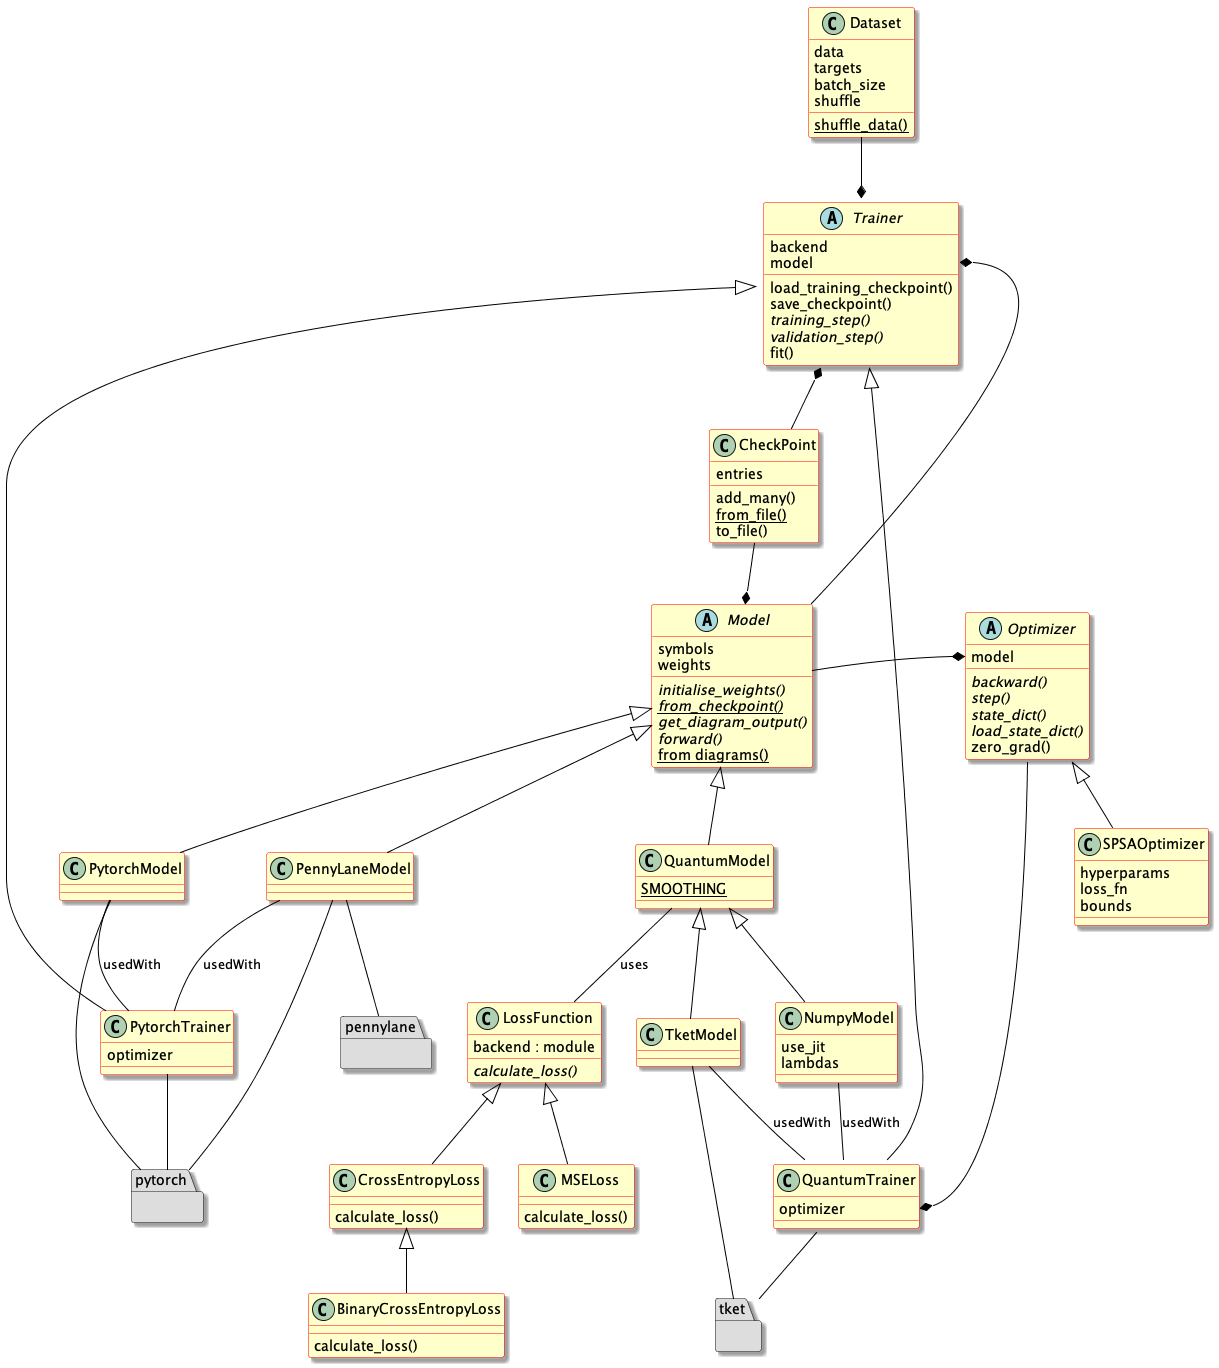
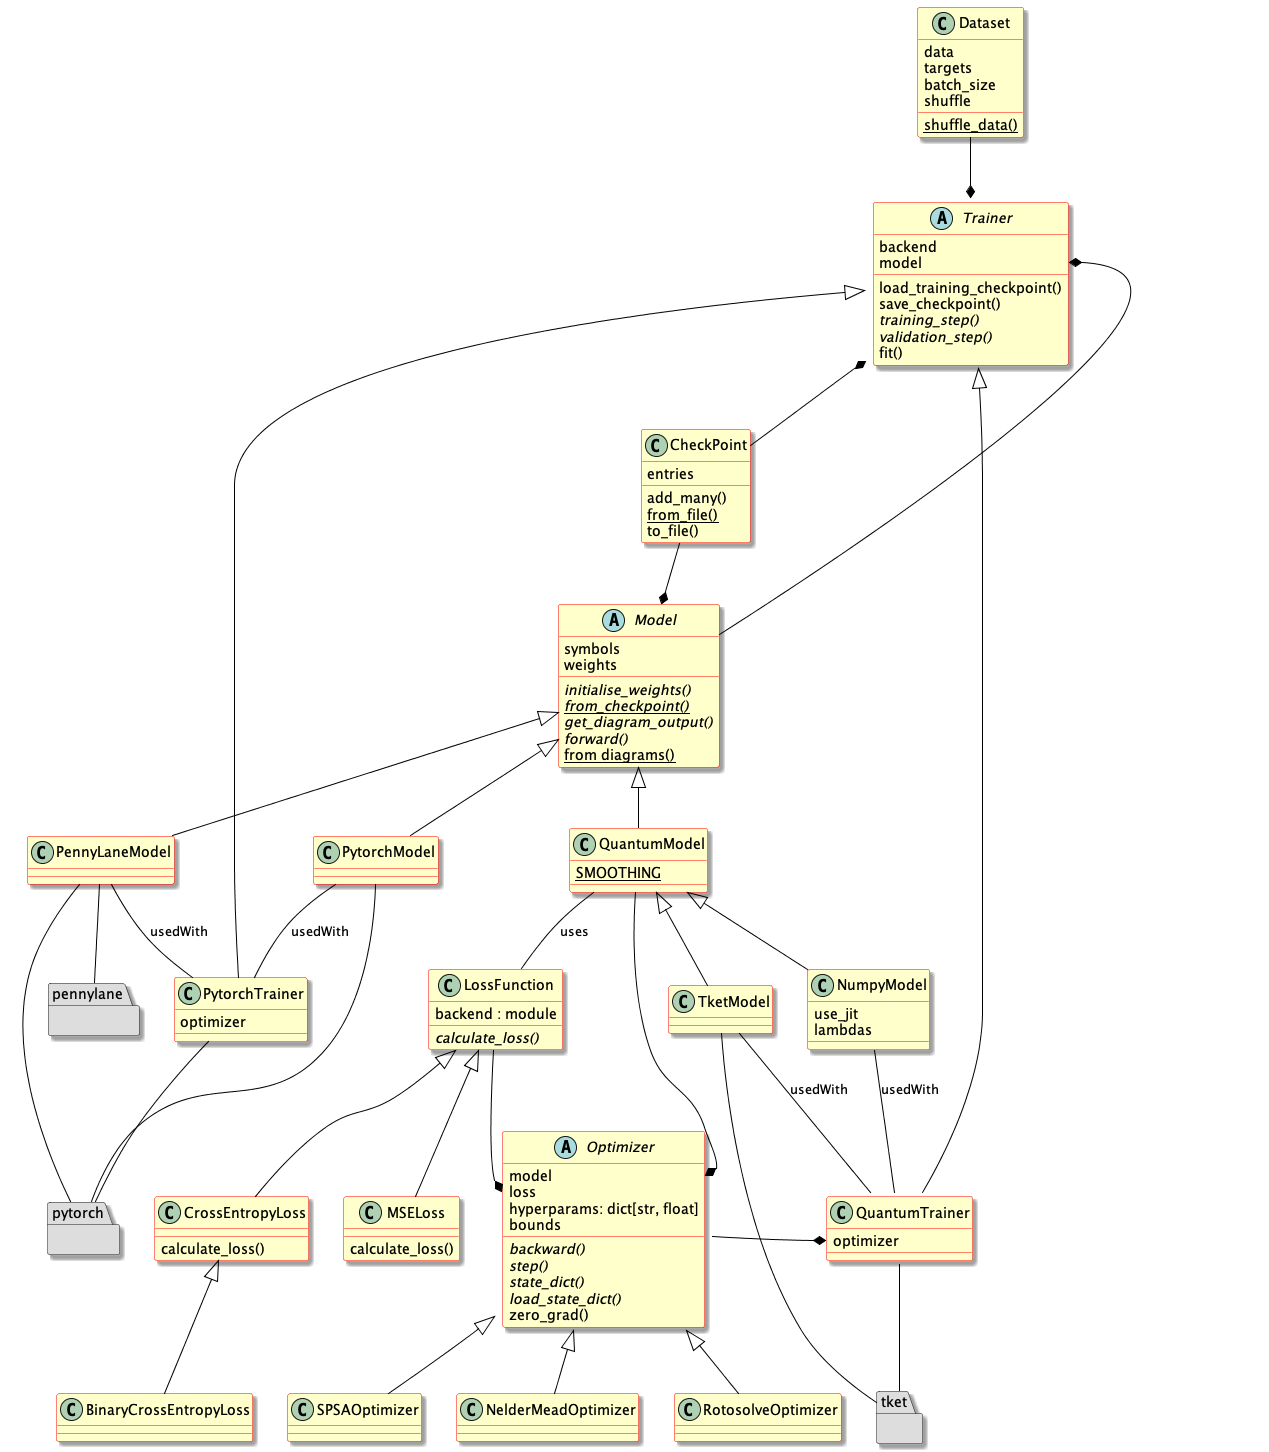
Fixes for 0.3.3 documentation (#538)
Some necessary updates on the docs for Rel. 0.3.3

diff --git a/lambeq/training/nelder_mead_optimizer.py b/lambeq/training/nelder_mead_optimizer.py
@@ -32,7 +32,7 @@ from lambeq.training.quantum_model import QuantumModel
 
 
 class NelderMeadOptimizer(Optimizer):
-    """Nelder Mead Optimizer.
+    """An optimizer based on the Nelder-Mead algorithm.
 
     The Nelder-Mead optimizer is an algorithm used for unconstrained
     optimization in multidimensional spaces. Unlike some other
@@ -52,8 +52,8 @@ class NelderMeadOptimizer(Optimizer):
     heuristic search approach, which means that it can sometimes
     converge to non-stationary points or suboptimal solutions.
 
-    This implementation is based heavily scipy's `optimize.minimize`. See
-    https://docs.scipy.org/doc/scipy/reference/generated/scipy.optimize.minimize.html
+    This implementation is based heavily on SciPy's `optimize.minimize
+    <https://docs.scipy.org/doc/scipy/reference/generated/scipy.optimize.minimize.html>`_.
 
     """
 
@@ -93,7 +93,6 @@ class NelderMeadOptimizer(Optimizer):
         - `fatol`: float, optional, default: 1e-4
             The acceptable level of absolute error in the loss value
             between iterations that indicates convergence.
-        }
 
         Parameters
         ----------
@@ -110,22 +109,21 @@ class NelderMeadOptimizer(Optimizer):
         ------
         ValueError
             - If the hyperparameters are not set correctly, or if the
-            length of `bounds` does not match the number of the model
-            parameters.
+              length of `bounds` does not match the number of the model
+              parameters.
             - If the lower bounds are greater than the upper bounds.
             - If the initial simplex is not a 2D array.
             - If the initial simplex does not have N+1 rows, where N is
-            the number of model parameters.
+              the number of model parameters.
 
-        Warnings
-        --------
+        Warning
             - If the initial model weights are not within the bounds.
 
         References
         ----------
         Gao, Fuchang & Han, Lixing. (2012). Implementing the Nelder-Mead
-        simplex algorithm with adaptive parameters.
-        Computational Optimization and Applications. 51. 259-277.
+        Simplex Algorithm with Adaptive Parameters.
+        `Computational Optimization and Applications`, 51. 259-277.
         10.1007/s10589-010-9329-3.
 
         """

diff --git a/lambeq/training/rotosolve_optimizer.py b/lambeq/training/rotosolve_optimizer.py
@@ -31,7 +31,7 @@ from lambeq.training.quantum_model import QuantumModel
 
 
 class RotosolveOptimizer(Optimizer):
-    """An Optimizer using the Rotosolve algorithm.
+    """An optimizer using the Rotosolve algorithm.
 
     Rotosolve is an optimizer for parametrized quantum circuits. It
     applies a shift of ±π/2 radians to each parameter, then updates the
@@ -41,7 +41,7 @@ class RotosolveOptimizer(Optimizer):
     This optimizer is designed to work with ansätze that are composed of
     single-qubit rotations, such as the
     :py:class:`.StronglyEntanglingAnsatz`, :py:class:`.Sim14Ansatz`
-    and :py:class:`.Sim14Ansatz`.
+    and :py:class:`.Sim15Ansatz`.
 
     See `Ostaszewski et al.
     <https://quantum-journal.org/papers/q-2021-01-28-391/pdf/>`_ for

diff --git a/docs/package-api.rst b/docs/package-api.rst
@@ -18,7 +18,10 @@ Concrete implementations of classical and quantum :term:`ansätze <ansatz (plura
 .. inheritance-diagram::
     lambeq.ansatz.IQPAnsatz
     lambeq.ansatz.MPSAnsatz
+    lambeq.ansatz.Sim14Ansatz
+    lambeq.ansatz.Sim15Ansatz
     lambeq.ansatz.SpiderAnsatz
+    lambeq.ansatz.StronglyEntanglingAnsatz
     lambeq.ansatz.Symbol
    :top-classes: lambeq.ansatz.base.Symbol
    :parts: 1
@@ -172,9 +175,11 @@ Provides a selection of :term:`trainers <trainer>`, :term:`models <model>`, and 
     lambeq.training.Dataset
     lambeq.training.MSELoss
     lambeq.training.LossFunction
+    lambeq.training.NelderMeadOptimizer
     lambeq.training.NumpyModel
     lambeq.training.PytorchModel
     lambeq.training.PytorchTrainer
+    lambeq.training.RotosolveOptimizer
     lambeq.training.SPSAOptimizer
     lambeq.training.TketModel
     lambeq.training.PennyLaneModel
